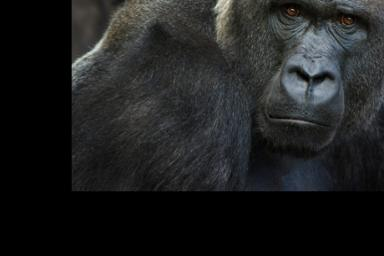
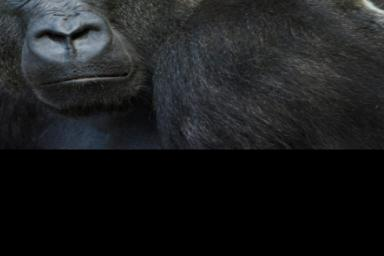
01_jitter_bbox.py,01_jitter_segmap.py

diff --git a/01_jitter_single.py b/01_jitter_single.py
@@ -4,23 +4,23 @@ import imgaug as ia
 from imgaug import augmenters as iaa
 import numpy as np
 
+# Gorilla and background
 im = Image.open('img/sample.jpg')
 im_bk = Image.open("img/background.jpg")
-
 width: int = 384
 height: int = 256
-
 im = im.resize((width, height))
 im_bk = im_bk.resize((width, height))
-im_bk.save("img/background2.jpg")
 
+# Mask
 mask = Image.new("L", im.size, 0)
 draw = ImageDraw.Draw(mask)
-# # polygons: List[Tuple[int, int]] = [(100, 100), (150, 40), (300, 200)]
 polygons: List[Tuple[int, int]] = [(170, 220), (170, 20), (380, 10), (380, 230)]
 draw.polygon(polygons, fill=255)
-# im_maked = Image.composite(im, im_bk, mask)
-# im_maked.save('img/masked.jpg')
+
+# masked image before augmentation
+im_masked = Image.composite(im, im_bk, mask)
+im_masked.save('img/masked.jpg')
 
 # 変換器の設定
 seq_aug = iaa.Sequential([
@@ -28,25 +28,23 @@ seq_aug = iaa.Sequential([
     iaa.Affine(
         scale={"x": (0.8, 1.2), "y": (0.8, 1.2)},
         translate_px={"x": (-100, 100), "y": (-100, 100)})
-], random_state=1)
+], random_order=False, random_state=1)
+
 
 im_array = np.array(im)
 aug_img = seq_aug.augment_image(im_array)
 aug_img_jpg = Image.fromarray(aug_img)
 aug_img_jpg.save('img/augimg.jpg')
 
-print(mask)
+# print(mask)
 mask_array = np.array(mask)
 aug_mask = seq_aug.augment_image(mask_array)
 aug_mask_jpg = Image.fromarray(aug_mask)
 aug_mask_jpg.save('img/augmask.jpg')
 
+# masked image after augmentation
+im_masked1 = Image.composite(aug_img_jpg, im_bk, aug_mask_jpg)
+im_masked1.save('img/masked1.jpg')
 
-# mask = Image.new("L", im.size, 0)
-# draw = ImageDraw.Draw(mask)
-# # polygons: List[Tuple[int, int]] = [(100, 100), (150, 40), (300, 200)]
-# polygons: List[Tuple[int, int]] = [(170, 220), (170, 20), (380, 10), (380, 230)]
-# draw.polygon(polygons, fill=255)
-# im_maked = Image.composite(im, im_bk, mask)
-# im_maked.save('img/masked.jpg')
+
 

diff --git a/01_jitter_bbox.py b/01_jitter_bbox.py
@@ -1,0 +1,55 @@
+import numpy as np
+from PIL import Image, ImageDraw
+import imgaug as ia
+import imgaug.augmenters as iaa
+from imgaug.augmentables.bbs import BoundingBox, BoundingBoxesOnImage
+
+ia.seed(3)
+
+image = Image.open('img/sample.jpg')
+width: int = 384
+height: int = 256
+image = image.resize((width, height))
+image_np = np.array(image)
+
+# Define an example bbox
+bbs = BoundingBoxesOnImage([
+    BoundingBox(x1=300, y1=40, x2=350, y2=80),
+    BoundingBox(x1=230, y1=160, x2=300, y2=190)
+], shape=image_np.shape)
+
+print(bbs.shape)
+print(bbs)
+# Define our augmentation pipeline
+seq = iaa.Sequential([
+    iaa.Fliplr(0.5),
+    iaa.Affine(
+        scale={"x": (0.8, 1.2), "y": (0.8, 1.2)},
+        translate_px={"x": (-50, 50), "y": (-50, 50)})
+], )
+
+
+# Augment BBs and images.
+image_aug, bbs_aug = seq(image=image_np, bounding_boxes=bbs)
+
+# print coordinates before/after augmentation (see below)
+# use .x1_int, .y_int, ... to get integer coordinates
+for i in range(len(bbs.bounding_boxes)):
+    before = bbs.bounding_boxes[i]
+    after = bbs_aug.bounding_boxes[i]
+    print("BB %d: (%.4f, %.4f, %.4f, %.4f) -> (%.4f, %.4f, %.4f, %.4f)" % (
+        i,
+        before.x1, before.y1, before.x2, before.y2,
+        after.x1, after.y1, after.x2, after.y2)
+    )
+
+# image with BBs before/after augmentation (shown below)
+image_before = bbs.draw_on_image(image_np, size=2)
+image_before = Image.fromarray(image_before)
+image_before.save('img/bbs_before.jpg')
+
+image_after = bbs_aug.draw_on_image(image_aug, size=2, color=[0, 0, 255])
+image_after = Image.fromarray(image_after)
+image_after.save('img/bbs_after.jpg')
+
+

diff --git a/01_jitter_segmap.py b/01_jitter_segmap.py
@@ -1,0 +1,44 @@
+import numpy as np
+from PIL import Image, ImageDraw
+import imgaug as ia
+import imgaug.augmenters as iaa
+from imgaug.augmentables.segmaps import SegmentationMapsOnImage
+
+
+ia.seed(3)
+
+image = Image.open('img/sample.jpg')
+width: int = 384
+height: int = 256
+image = image.resize((width, height))
+image_np = np.array(image)
+# print(image_np.shape)
+
+# Define an example segmentation map (int32, 128x128).
+# Here, we arbitrarily place some squares on the image.
+# Class 0 is our intended background class.
+segmap = np.zeros((height, width, 1), dtype=np.int32)
+segmap[40:90, 320:360, 0] = 1
+segmap[30:80, 240:290, 0] = 2
+segmap[180:190, 230:290, 0] = 3
+segmap = SegmentationMapsOnImage(segmap, shape=image_np.shape)
+
+# Define our augmentation pipeline
+seq = iaa.Sequential([
+    iaa.Fliplr(0.5),
+    iaa.Affine(
+        scale={"x": (0.8, 1.2), "y": (0.8, 1.2)},
+        translate_px={"x": (-50, 50), "y": (-50, 50)})
+],)
+
+# Augment images and segmaps.
+image_aug, segmap_aug = seq(image=image_np, segmentation_maps=segmap)
+
+# image with segmaps before/after augmentation
+image_before = segmap.draw_on_image(image_np)[0]
+image_before = Image.fromarray(image_before)
+image_before.save('img/segmap_before.jpg')
+
+image_after = segmap_aug.draw_on_image(image_aug)[0]
+image_after = Image.fromarray(image_after)
+image_after.save('img/segmap_after.jpg')

diff --git a/README.md b/README.md
@@ -12,18 +12,21 @@
 - 線形変換した後のマスクを背景画像に貼り付けられるようにする
 - 線形変換した後にアノテーションのポリゴンの位置が変わるはずなので、それも同じように移動されるようにする
 
-commit
-1. We randomly select two images and apply random scale jittering and random horizontal flipping on each of them. 
-    random scale jittering: 
+Method  
+1. We randomly select two images and apply random scale jittering and random horizontal flipping on each of them.   
+    random scale jittering:  
+        iaa.Affine(
+            scale={"x": (0.8, 1.2), "y": (0.8, 1.2)},
+            translate_px={"x": (-500, 500), "y": (-200, 200)})  
+    random horizontal flipping:  
+        iaa.Fliplr(0.5)  
     
-    iaa.Affine(
-        scale={"x": (0.8, 1.2), "y": (0.8, 1.2)},
-        translate_px={"x": (-500, 500), "y": (-200, 200)})
-    random horizontal flipping:
-    iaa.Fliplr(0.5)
-    
-2. Then we select a random subset of objects from one of the images and paste them onto the other image.
+    bbox: https://imgaug.readthedocs.io/en/latest/source/examples_bounding_boxes.html#a-simple-example  
+    segmaps: https://imgaug.readthedocs.io/en/latest/source/examples_segmentation_maps.html#a-simple-example  
 
+01_jitter_bbox.py : bbs_before.jpg -> bbs_after.jpg  
+01_jitter_segmap.py : segmap_before.jpg -> segmap_after.jpg  
 
+2. Then we select a random subset of objects from one of the images and paste them onto the other image.  
 
 3. Lastly, we adjust the ground-truth annotations accordingly: we remove fully occluded objects and update the masks and bounding boxes of partially occluded objects.
